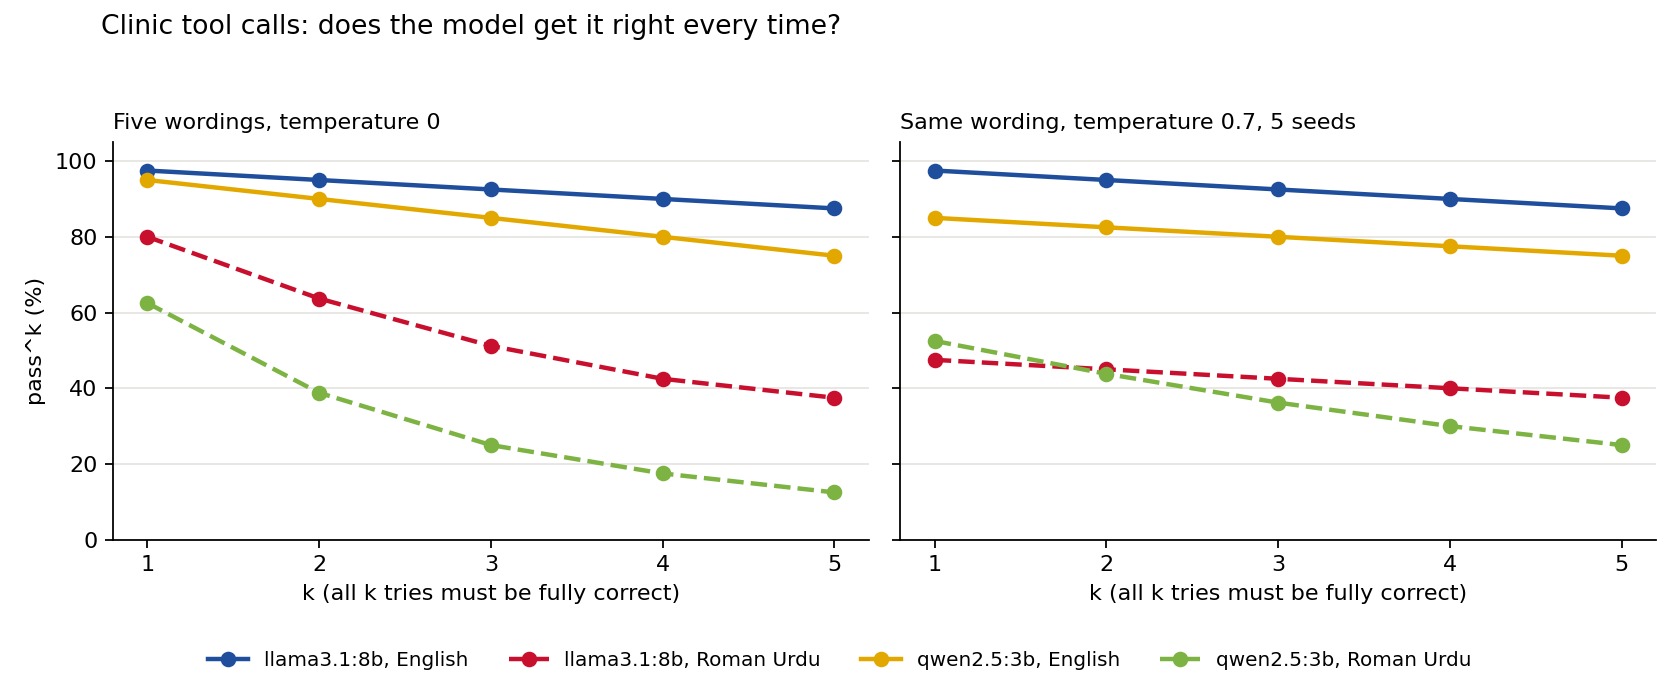
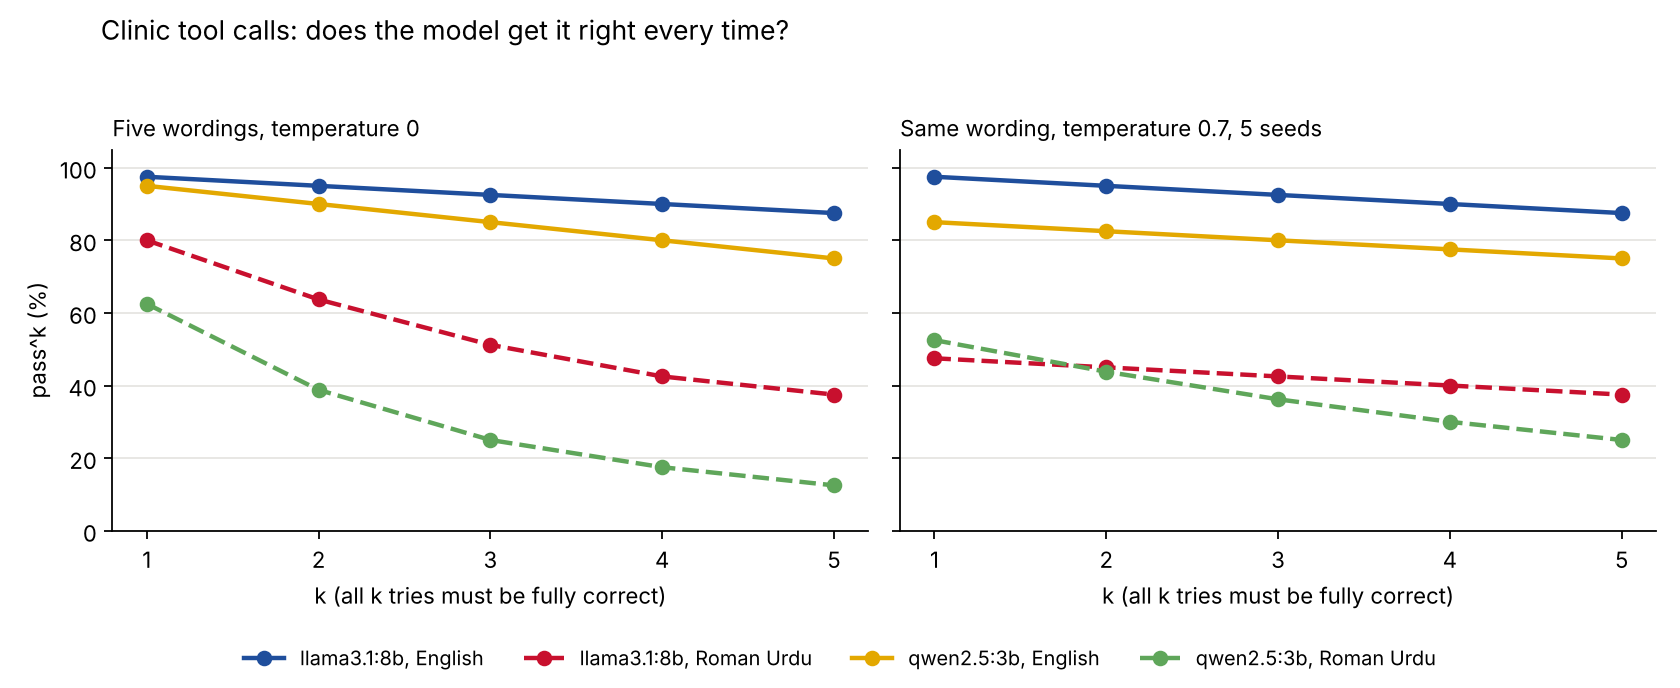
Add tool-call consistency results and use the house chart colours

diff --git a/tool-call-consistency/analysis.py b/tool-call-consistency/analysis.py
@@ -21,7 +21,7 @@ from consistency import HERE, N_TRIALS, canonical_output, pass_hat_k  # noqa: E4
 
 LANG = {"en": "English", "ru": "Roman Urdu"}
 COND = {"wording": "Five wordings, temperature 0", "sampling": "Same wording, temperature 0.7, 5 seeds"}
-COLOURS = {("en", 0): "#1F4E9C", ("ru", 0): "#C8102E", ("en", 1): "#E3A800", ("ru", 1): "#7CB342"}
+COLOURS = {("en", 0): "#1F4E9C", ("ru", 0): "#C8102E", ("en", 1): "#E3A800", ("ru", 1): "#5FA65A"}
 N_BOOT = 2000
 
 Group = Tuple[str, str, str]  # model, lang, condition

diff --git a/tool-call-consistency/README.md b/tool-call-consistency/README.md
@@ -26,7 +26,30 @@ python analysis.py             # writes results/summary.csv, task_outcomes.csv, 
 `run.py` appends one line per call to `results/runs.jsonl` and skips finished calls, so it can be stopped and restarted.
 
 ## Results
-_To be filled from my own run._
+320 calls on a MacBook M4, all completed (no timeouts in the final run). 95% intervals resample the 8 tasks.
+
+| Model | Language | Condition | pass^1 | pass^5 [95% CI] | Tasks always / sometimes / never right | Distinct outputs per task |
+|---|---|---|---|---|---|---|
+| llama3.1:8b | English | wording | 97.5% | 87.5% [62.5, 100] | 7 / 1 / 0 | 1.12 |
+| llama3.1:8b | English | sampling | 97.5% | 87.5% [62.5, 100] | 7 / 1 / 0 | 1.12 |
+| llama3.1:8b | Roman Urdu | wording | 80.0% | 37.5% [0, 75.0] | 3 / 5 / 0 | 1.88 |
+| llama3.1:8b | Roman Urdu | sampling | 47.5% | 37.5% [12.5, 75.0] | 3 / 1 / 4 | 1.62 |
+| qwen2.5:3b | English | wording | 95.0% | 75.0% [37.5, 100] | 6 / 2 / 0 | 1.25 |
+| qwen2.5:3b | English | sampling | 85.0% | 75.0% [37.5, 100] | 6 / 1 / 1 | 1.12 |
+| qwen2.5:3b | Roman Urdu | wording | 62.5% | 12.5% [0, 37.5] | 1 / 7 / 0 | 2.50 |
+| qwen2.5:3b | Roman Urdu | sampling | 52.5% | 25.0% [0, 62.5] | 2 / 3 / 3 | 1.62 |
+
+![pass^k curves](results/pass_k.png)
+
+**What I found**
+
+- **English calls were mostly repeatable.** pass^5 was 87.5% for llama3.1:8b and 75% for qwen2.5:3b in both conditions.
+- **Roman Urdu calls were not.** pass^5 fell to 12.5-37.5%. One try hides this: with five wordings, qwen2.5:3b got 62.5% of single tries right but only 12.5% of tasks right all five times; llama3.1:8b went from 80% to 37.5%.
+- **The two sources of variation fail differently in Roman Urdu.** Rewording made most tasks *sometimes* right (5 of 8 tasks for llama3.1:8b, 7 of 8 for qwen2.5:3b). Sampling the original wording made failures *systematic*: llama3.1:8b got 4 of 8 Roman Urdu tasks wrong in all five samples (time, pulse, amount and reason), so a retry with a new seed would not have fixed them.
+- **The fields that broke** were the ones that need interpretation rather than copying: the appointment time (T01), pulse (T02), pain score (T03), refund amount (T05), cancellation reason (T06) and city (T07), and once the reminder interval (T04). The exercise log (T08) was right in every try for both models and languages.
+- 150 of 320 replies wrapped the JSON in code fences despite the instruction not to; it could still be parsed. 6 replies were not schema valid.
+
+Eight tasks give wide intervals, so the English-versus-Roman-Urdu gap is clear but the differences between models and conditions are not.
 
 ## Limitations
 - 8 tasks only, so the bootstrap intervals are wide; this is a pilot for a larger task set.
